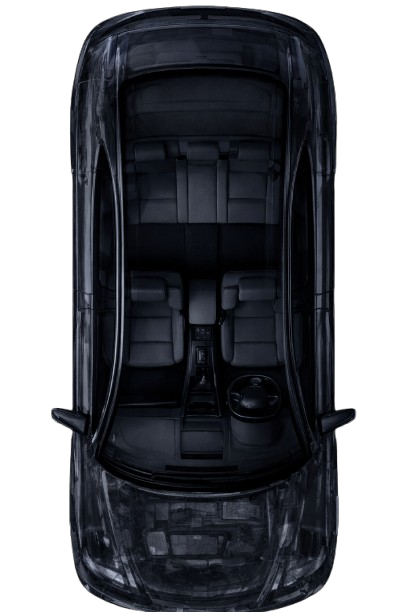
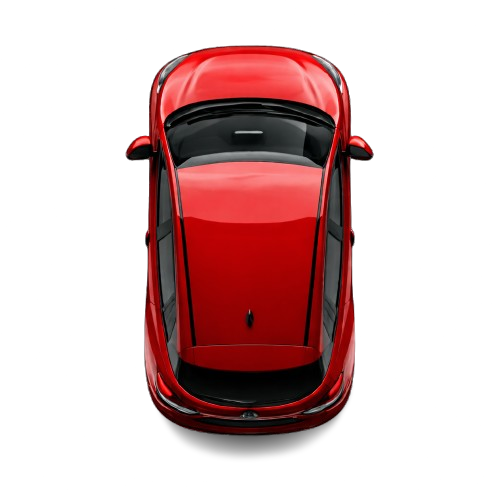
Added car speed for levels

diff --git a/game.js b/game.js
@@ -18,16 +18,22 @@ class BikeScene extends Phaser.Scene {
   }
 
   create() {
+    /* ================= FLAGS ================= */
     this.isGameOver = false;
     this.isNight = false;
     this.score = 0;
+
+    /* ================= LEVEL SYSTEM ================= */
+    this.level = 1;
+    this.baseCarSpeed = 260;   // starting speed
+    this.speedIncrement = 40;  // speed added every level
 
     const { width, height } = this.scale;
     this.isMobile =
       this.sys.game.device.os.android ||
       this.sys.game.device.os.iOS;
 
-    /* ---------- ROAD ---------- */
+    /* ================= ROAD ================= */
     this.roadCenter = width / 2;
     this.roadWidth = width * 0.28;
     this.roadLeft = this.roadCenter - this.roadWidth / 2;
@@ -38,7 +44,7 @@ class BikeScene extends Phaser.Scene {
       this.roadCenter + this.roadWidth * 0.25
     ];
 
-    /* ---------- BACKGROUND LOOP ---------- */
+    /* ================= BACKGROUND LOOP ================= */
     this.bgKey = this.isMobile ? "bg_day_mobile" : "bg_day_laptop";
 
     this.bg1 = this.add.image(width / 2, 0, this.bgKey)
@@ -49,12 +55,12 @@ class BikeScene extends Phaser.Scene {
       .setOrigin(0.5, 0)
       .setDisplaySize(width, height);
 
-    /* ---------- MUSIC ---------- */
+    /* ================= MUSIC ================= */
     this.music = this.sound.add("music", { loop: true, volume: 0.5 });
     this.music.play();
 
-    /* ---------- UI ---------- */
-    this.add.text(width / 2, 30, "2D BIKE Game", {
+    /* ================= UI ================= */
+    this.add.text(width / 2, 30, "2D BIKE SIMULATOR", {
       fontSize: "32px",
       fontStyle: "bold",
       color: "#333333"
@@ -62,10 +68,15 @@ class BikeScene extends Phaser.Scene {
 
     this.scoreText = this.add.text(20, 20, "Score: 0", {
       fontSize: "18px",
-      color: "#635a5a"
+      color: "#333333"
     });
 
-    /* ---------- BIKE ---------- */
+    this.levelText = this.add.text(20, 45, "Level: 1", {
+      fontSize: "16px",
+      color: "#333333"
+    });
+
+    /* ================= BIKE ================= */
     this.bike = this.physics.add.sprite(
       this.roadCenter,
       height * 0.8,
@@ -73,7 +84,7 @@ class BikeScene extends Phaser.Scene {
     );
     this.bike.setScale(0.22);
 
-    /* ---------- INPUT ---------- */
+    /* ================= INPUT ================= */
     this.cursors = this.input.keyboard.createCursorKeys();
     this.turnDirection = 0;
 
@@ -85,7 +96,7 @@ class BikeScene extends Phaser.Scene {
       this.turnDirection = 0;
     });
 
-    /* ---------- CARS ---------- */
+    /* ================= CARS ================= */
     this.cars = this.physics.add.group();
 
     this.carTimer = this.time.addEvent({
@@ -99,7 +110,7 @@ class BikeScene extends Phaser.Scene {
 
         const car = this.cars.create(laneX, -80, key);
         car.setScale(0.18);
-        car.setVelocityY(260);
+        car.setVelocityY(this.baseCarSpeed);
       }
     });
 
@@ -111,7 +122,18 @@ class BikeScene extends Phaser.Scene {
       this
     );
 
-    /* ---------- DAY / NIGHT ---------- */
+    /* ================= LEVEL TIMER ================= */
+    this.levelTimer = this.time.addEvent({
+      delay: 20000, // 20 seconds
+      loop: true,
+      callback: () => {
+        this.level++;
+        this.baseCarSpeed += this.speedIncrement;
+        this.levelText.setText("Level: " + this.level);
+      }
+    });
+
+    /* ================= DAY / NIGHT ================= */
     this.time.addEvent({
       delay: 20000,
       loop: true,
@@ -121,6 +143,8 @@ class BikeScene extends Phaser.Scene {
   }
 
   toggleDayNight() {
+    if (this.isGameOver) return;
+
     this.isNight = !this.isNight;
 
     this.bgKey = this.isMobile
@@ -142,51 +166,50 @@ class BikeScene extends Phaser.Scene {
     this.isGameOver = true;
     this.music.stop();
     this.carTimer.remove(false);
+    this.levelTimer.remove(false);
     this.cars.setVelocityY(0);
 
     const { width, height } = this.scale;
 
-    /* ---------- GAME OVER UI ---------- */
     const panel = this.add.container(width / 2, height / 2);
 
-    const title = this.add.text(0, -80, "Well tried.", {
+    const t1 = this.add.text(0, -80, "Well tried.", {
       fontSize: "26px",
       color: "#333333"
     }).setOrigin(0.5);
 
-    const score = this.add.text(0, -40, `Your score: ${Math.floor(this.score)}`, {
-      fontSize: "22px",
-      color: "#333333"
-    }).setOrigin(0.5);
+    const t2 = this.add.text(0, -40,
+      `Your score: ${Math.floor(this.score)}`,
+      { fontSize: "22px", color: "#333333" }
+    ).setOrigin(0.5);
 
-    const quote = this.add.text(
-      0,
-      0,
+    const t3 = this.add.text(
+      0, 0,
       "Don't compare just beat your own score",
       {
         fontSize: "18px",
-        color: "#635a5a",
+        color: "#333333",
         align: "center",
-        wordWrap: { width: 300 }
+        wordWrap: { width: 320 }
       }
     ).setOrigin(0.5);
 
-    const restartBtn = this.add.text(0, 60, "RESTART", {
+    const restart = this.add.text(0, 60, "RESTART", {
       fontSize: "22px",
       backgroundColor: "#00aa00",
       padding: { x: 24, y: 10 },
       color: "#ffffff"
     }).setOrigin(0.5).setInteractive();
 
-    restartBtn.on("pointerdown", () => this.scene.restart());
+    restart.on("pointerdown", () => this.scene.restart());
 
-    panel.add([title, score, quote, restartBtn]);
+    panel.add([t1, t2, t3, restart]);
   }
 
   update() {
     if (this.isGameOver) return;
 
-    /* ---------- BACKGROUND LOOP ---------- */
+    /* BACKGROUND LOOP */
     const scrollSpeed = 4;
     this.bg1.y += scrollSpeed;
     this.bg2.y += scrollSpeed;
@@ -198,11 +221,11 @@ class BikeScene extends Phaser.Scene {
       this.bg2.y = this.bg1.y - this.scale.height;
     }
 
-    /* ---------- SCORE ---------- */
+    /* SCORE */
     this.score += 0.1;
     this.scoreText.setText("Score: " + Math.floor(this.score));
 
-    /* ---------- BIKE CONTROL ---------- */
+    /* BIKE MOVE */
     let dir = 0;
     if (this.cursors.left.isDown) dir = -1;
     else if (this.cursors.right.isDown) dir = 1;
@@ -225,7 +248,7 @@ class BikeScene extends Phaser.Scene {
   }
 }
 
-/* ---------- GAME CONFIG ---------- */
+/* ================= GAME CONFIG ================= */
 const config = {
   type: Phaser.AUTO,
   width: window.innerWidth,
